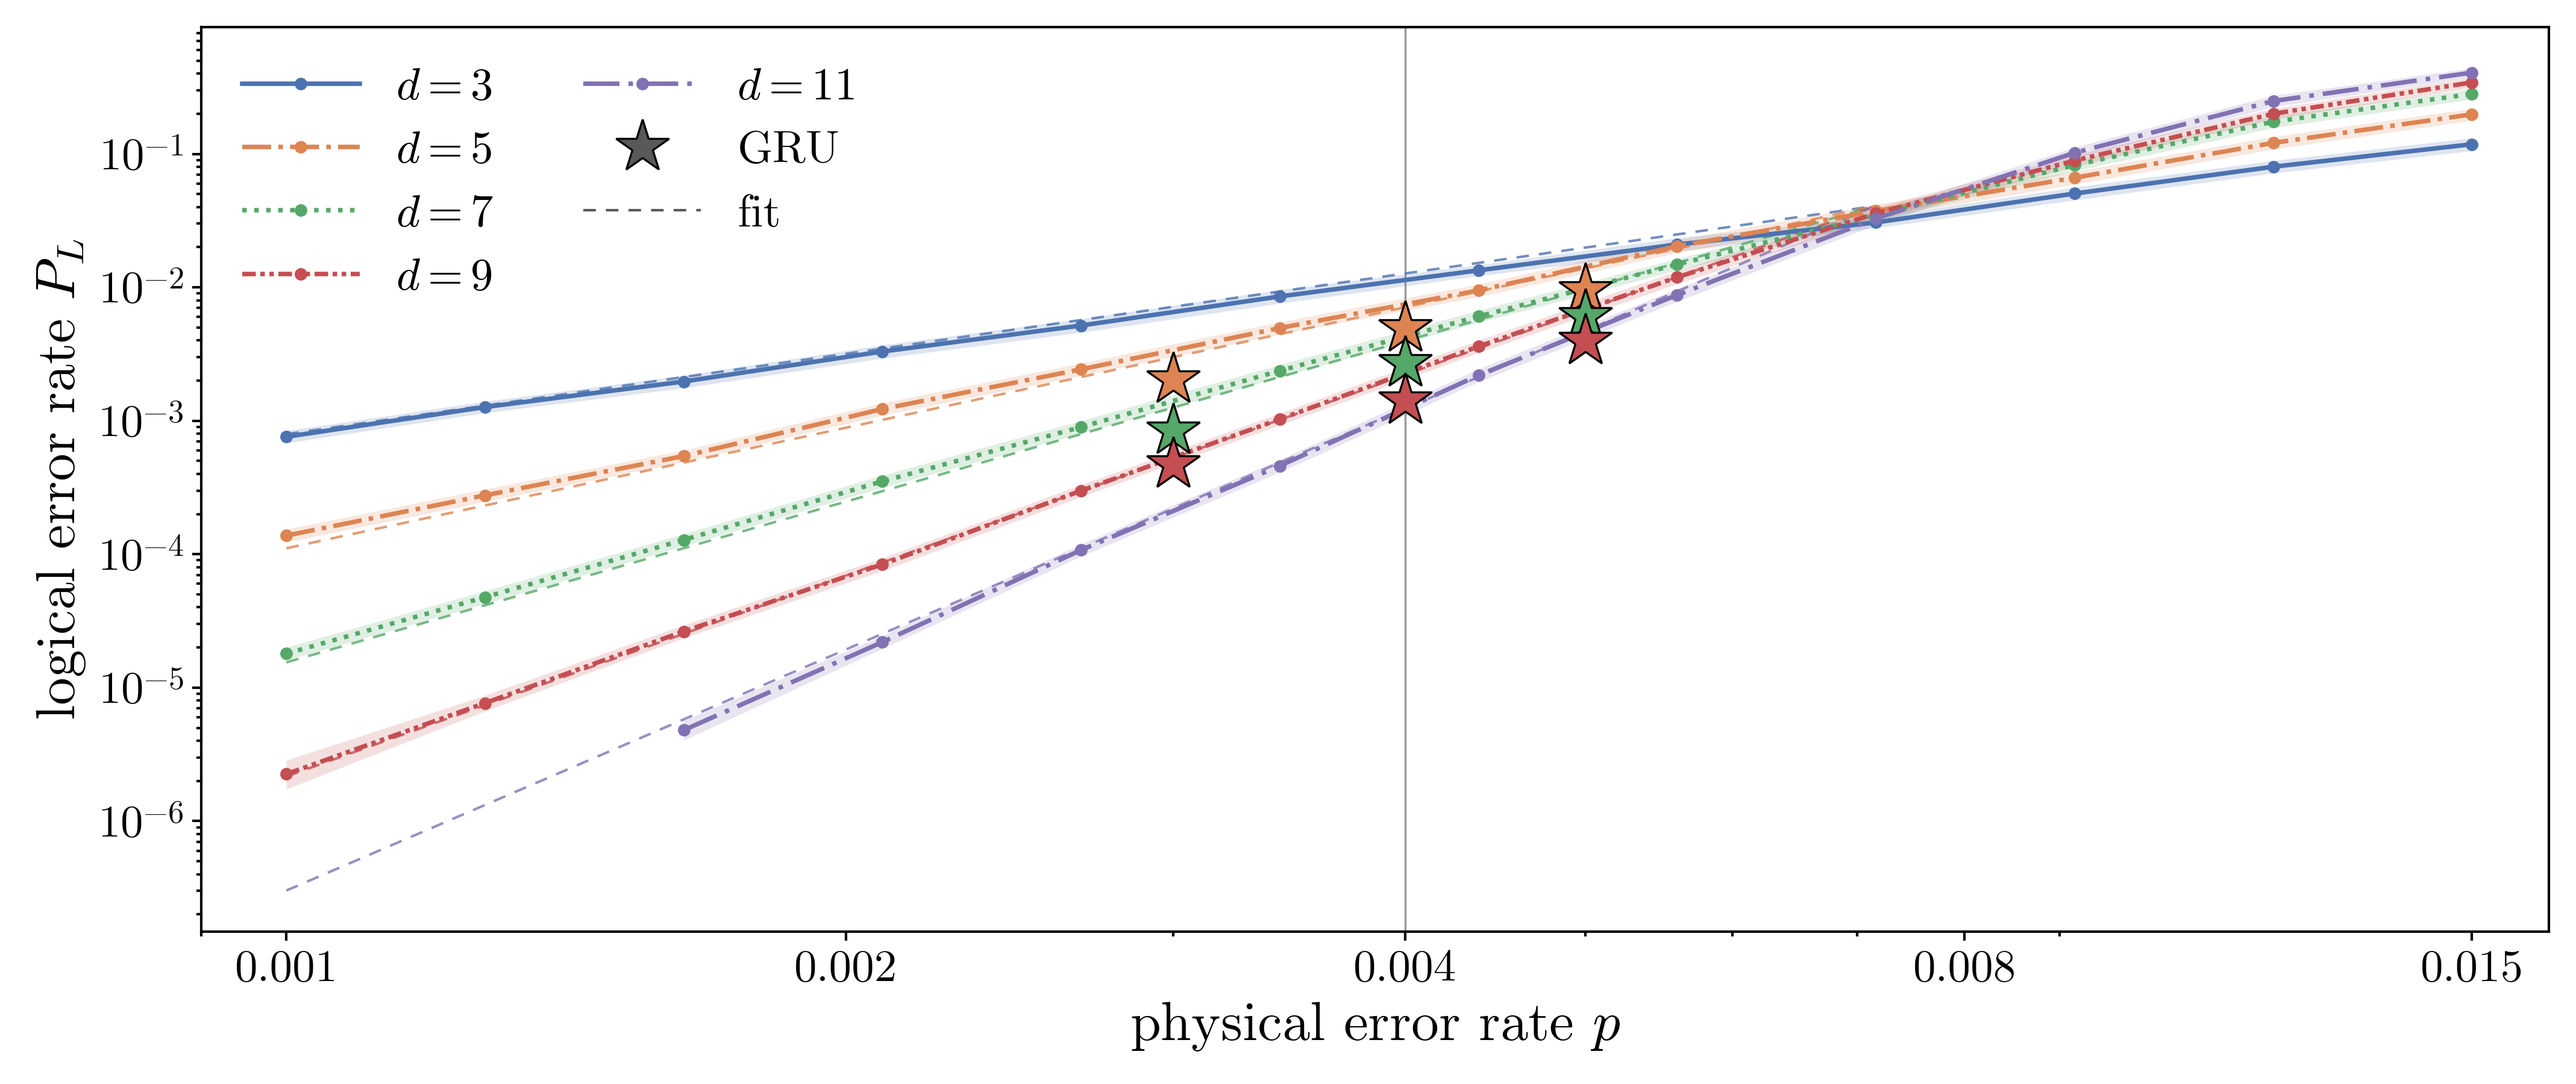
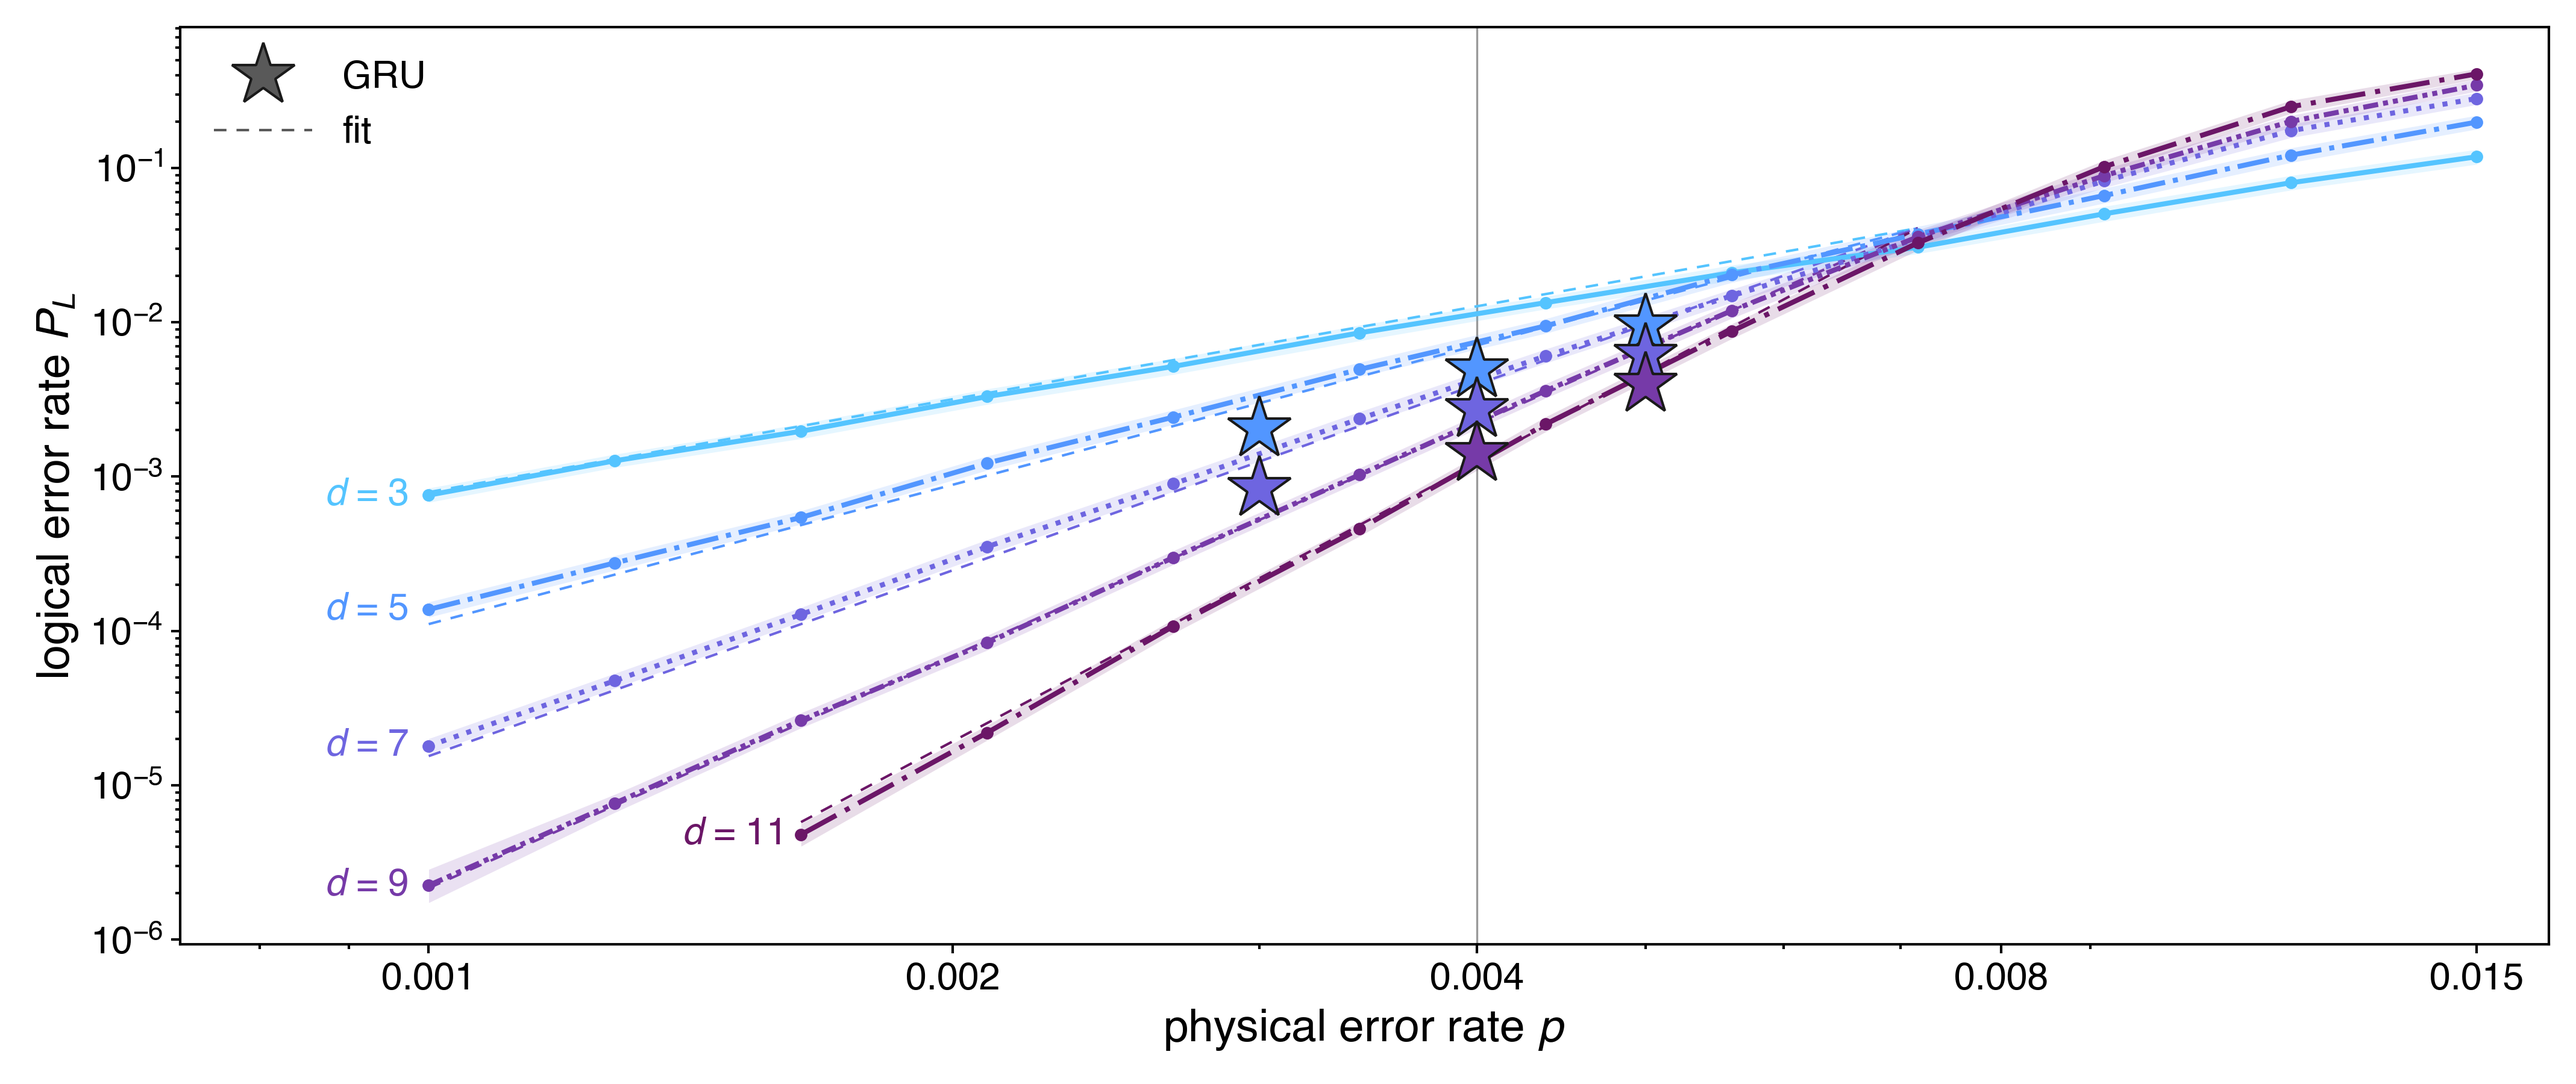
Poster figures: threshold with curve labels, GRU vs MWPM bars, Helvetica poster style

diff --git a/figures/threshold_figure.py b/figures/threshold_figure.py
@@ -1,5 +1,5 @@
 # Created: 2026-10-27
-# Last modified: 2026-10-27
+# Last modified: 2026-10-27 (curve labels instead of distance legend, DIST colours; poster style: Helvetica, 18/15 pt; distance palette; d9 p=0.003 star removed; fit lines clipped to each d's data range)
 # Threshold figure: MWPM logical error rate vs p from the sinter sweep, GRU test-set results
 # as stars. Every point is a counted simulation result; the dashed fit lines are a guide only.
 #   python figures/threshold_figure.py
@@ -12,9 +12,10 @@ from pathlib import Path
 import matplotlib
 matplotlib.use("Agg")
 import matplotlib.pyplot as plt
-from matplotlib import font_manager
 import numpy as np
 from scipy.optimize import brentq
+
+import poster_style
 
 ROOT = Path(__file__).resolve().parents[1]
 SWEEP = ROOT / "experiments" / "threshold_sweep_2026-10-27"
@@ -24,11 +25,13 @@ MIN_ERRORS = 100                  # points below this are left out of the plot a
 BAND_LIKELIHOOD_RATIO = 1000      # same band definition as sinter's plots
 OPERATING_P = 0.004
 
-COLORS = {3: "#4C72B0", 5: "#DD8452", 7: "#55A868", 9: "#C44E52", 11: "#8172B3"}
+COLORS = poster_style.DIST
+STAR_EDGE = "#1A1A1A"
 STYLES = {3: "-", 5: "-.", 7: ":", 9: (0, (3, 1, 1, 1, 1, 1)), 11: (0, (8, 2, 1, 2))}
 
 # GRU test-set rows: (d, p) -> (result file, row filter). The d9 p=0.004 headline is f3280e240;
 # f7w_p004 was scored by its launcher, not by eval_selected.sh (protocol/selection_rule.md).
+# d9 p=0.003 (f9w_p003) is left out: its headline model is undecided (240 epochs not converged).
 GRU_SOURCES = {
     (5, 0.003): (ROOT / "protocol/eval_selected.csv", "f5w_p003_"),
     (5, 0.004): (ROOT / "protocol/eval_selected.csv", "f5w_p004_"),
@@ -36,7 +39,6 @@ GRU_SOURCES = {
     (7, 0.003): (ROOT / "protocol/eval_selected.csv", "f7w_p003_"),
     (7, 0.004): (SWEEP / "gru_test_f7w_p004_eval_best_ckpt.csv", "f7w_p004_"),
     (7, 0.005): (ROOT / "protocol/eval_selected.csv", "f7w_p005_"),
-    (9, 0.003): (ROOT / "protocol/eval_selected.csv", "f9w_p003_"),
     (9, 0.004): (ROOT / "protocol/eval_selected.csv", "f3280e240_"),
     (9, 0.005): (ROOT / "protocol/eval_selected.csv", "f9w_p005_"),
 }
@@ -95,45 +97,34 @@ def load_gru():
     return stars
 
 
-def setup_style():
-    for f in font_manager.findSystemFonts():
-        if "cmun" in Path(f).name.lower():
-            font_manager.fontManager.addfont(f)
-    plt.rcParams.update({
-        "font.family": "CMU Serif", "mathtext.fontset": "cm", "axes.unicode_minus": False,
-        "xtick.labelsize": 18, "ytick.labelsize": 18, "axes.labelsize": 22, "legend.fontsize": 18,
-        "axes.linewidth": 1, "xtick.major.width": 1, "ytick.major.width": 1,
-        "xtick.minor.width": 1, "ytick.minor.width": 1,
-    })
-
-
 def plot(points, stars, a_fit, p_th):
     fig, ax = plt.subplots(figsize=(14.25, 6.0))
     ax.axvline(OPERATING_P, color="0.6", lw=0.8, zorder=0)
-    p_guide = np.geomspace(1e-3, p_th, 100)
     for d in sorted({d for d, _ in points}):
         ps = sorted(p for dd, p in points if dd == d)
         v = [points[d, p] for p in ps]
         pl = [x["errors"] / x["shots"] for x in v]
         band = np.array([likelihood_band(x["errors"], x["shots"]) for x in v])
         c = COLORS[d]
-        ax.fill_between(ps, band[:, 0], band[:, 1], color=c, alpha=0.18, lw=0, zorder=1)
-        ax.plot(ps, pl, color=c, ls=STYLES[d], lw=1.8, marker="o", ms=4, label=f"$d = {d}$", zorder=2)
-        ax.plot(p_guide, a_fit * (p_guide / p_th) ** ceil(d / 2), color=c, ls=(0, (5, 4)), lw=1.0,
-                alpha=0.8, zorder=1)
+        ax.fill_between(ps, band[:, 0], band[:, 1], color=c, alpha=0.15, lw=0, zorder=1)
+        ax.plot(ps, pl, color=c, ls=STYLES[d], lw=2, marker="o", ms=4, mfc=c, mec=c, zorder=2)
+        ax.annotate(f"$d$ = {d}", (ps[0], pl[0]), textcoords="offset points", xytext=(-8, 0),
+                    ha="right", va="center", color=c, fontsize=poster_style.CURVE_LABEL_PT)
+        # guide only over this d's own measured range, and only below threshold
+        p_guide = np.geomspace(min(ps), min(max(ps), p_th), 100)
+        ax.plot(p_guide, a_fit * (p_guide / p_th) ** ceil(d / 2), color=c, ls=(0, (5, 4)), lw=1,
+                zorder=1)
     for s in stars:
-        ax.plot(s["p"], s["gru"], marker="*", ms=22, color=COLORS[s["d"]], mec="black", mew=0.8,
+        ax.plot(s["p"], s["gru"], marker="*", ms=26, color=COLORS[s["d"]], mec=STAR_EDGE, mew=1,
                 ls="none", zorder=4)
 
-    handles, labels = ax.get_legend_handles_labels()
-    handles += [plt.Line2D([], [], marker="*", ms=22, color="0.35", mec="black", mew=0.8, ls="none"),
-                plt.Line2D([], [], color="0.35", ls=(0, (5, 4)), lw=1.0)]
-    labels += ["GRU", "fit"]
-    ax.legend(handles, labels, loc="upper left", ncol=2, frameon=False, handlelength=2.6)
+    handles = [plt.Line2D([], [], marker="*", ms=26, color="0.35", mec=STAR_EDGE, mew=1, ls="none"),
+                plt.Line2D([], [], color="0.35", ls=(0, (5, 4)), lw=1)]
+    ax.legend(handles, ["GRU", "fit"], loc="upper left", frameon=False, handlelength=2.6)
 
     ax.set_xscale("log")
     ax.set_yscale("log")
-    ax.set_xlim(9e-4, 1.65e-2)
+    ax.set_xlim(7.2e-4, 1.65e-2)  # room for the curve labels left of p = 0.001
     x_ticks = [0.001, 0.002, 0.004, 0.008, 0.015]
     ax.set_xticks(x_ticks)
     ax.set_xticklabels([f"{t:g}" for t in x_ticks])
@@ -150,7 +141,7 @@ if __name__ == "__main__":
     a_fit, p_th, n_fit = fit_threshold(points)
     stars = load_gru()
 
-    setup_style()
+    poster_style.apply()
     fig = plot(points, stars, a_fit, p_th)
     OUT.mkdir(parents=True, exist_ok=True)
     fig.savefig(OUT / "fig_threshold.png", dpi=300, facecolor="white")
@@ -161,6 +152,12 @@ if __name__ == "__main__":
                    total_cpu_s=sum(v["cpu_s"] for v in sweep.values()),
                    gru=[dict(s, ratio=s["gru"] / s["mwpm"]) for s in stars])
     json.dump(summary, open(OUT / "fig_threshold_summary.json", "w"), indent=1, default=list)
+    with open(OUT / "fig_threshold_points.csv", "w", newline="") as fh:
+        w = csv.writer(fh)
+        w.writerow(["d", "p", "shots", "errors", "P_L", "cpu_s", "plotted", "in_fit"])
+        for (d, p), v in sorted(sweep.items()):
+            w.writerow([d, p, v["shots"], v["errors"], f"{v['errors'] / v['shots']:.4e}",
+                        round(v["cpu_s"], 1), (d, p) in points, (d, p) in points and p < p_th])
     print(f"p_th = {p_th:.5f}  A = {a_fit:.4f}  ({n_fit} points in fit); skipped {skipped}")
     for s in stars:
         print(f"d={s['d']} p={s['p']}: GRU {s['gru']:.6f} MWPM {s['mwpm']:.6f} "

diff --git a/figures/gru_vs_mwpm_bars.py b/figures/gru_vs_mwpm_bars.py
@@ -1,0 +1,62 @@
+# Created: 2026-10-27
+# Last modified: 2026-10-27
+# GRU vs MWPM logical error rate at p = 0.004, d = 5, 7, 9: the selected checkpoints' test-set
+# results (1.8M shots, MWPM on the same shots), the same rows as the threshold figure's stars.
+#   python figures/gru_vs_mwpm_bars.py
+import matplotlib
+matplotlib.use("Agg")
+import matplotlib.pyplot as plt
+import numpy as np
+
+import poster_style
+from threshold_figure import OUT, load_gru
+
+P = 0.004
+DISTANCES = (5, 7, 9)
+FRAME_IN = (6.9, 3.0)
+
+
+def std_err(p_l, n):
+    return np.sqrt(p_l * (1 - p_l) / n)
+
+
+def plot(rows):
+    fig, ax = plt.subplots(figsize=FRAME_IN)
+    x = np.arange(len(rows))
+    width = 0.36
+    gru = np.array([r["gru"] for r in rows])
+    mwpm = np.array([r["mwpm"] for r in rows])
+    n = np.array([r["n"] for r in rows])
+    err_kw = dict(ecolor=poster_style.INK, elinewidth=1, capsize=3, capthick=1)
+    ax.bar(x - width / 2, gru, width, yerr=std_err(gru, n), color=poster_style.MODEL, label="GRU",
+           error_kw=err_kw, zorder=2)
+    ax.bar(x + width / 2, mwpm, width, yerr=std_err(mwpm, n), color=poster_style.NEUTRAL, label="MWPM",
+           error_kw=err_kw, zorder=2)
+    for xi, g, m in zip(x, gru, mwpm):
+        ax.annotate(f"{g / m:.2f}x", (xi - width / 2, g), textcoords="offset points", xytext=(0, 4),
+                    ha="center", va="bottom", fontsize=poster_style.CURVE_LABEL_PT, color=poster_style.INK)
+
+    ax.set_yscale("log")
+    ax.set_ylim(5e-4, 2e-2)
+    ax.set_xticks(x)
+    ax.set_xticklabels([f"$d$ = {r['d']}" for r in rows])
+    ax.tick_params(axis="x", length=0)
+    ax.set_ylabel("logical error rate $P_L$")
+    ax.legend(loc="upper right", frameon=False)
+    for side in ("top", "right"):
+        ax.spines[side].set_visible(False)
+    fig.tight_layout(pad=0.3)
+    return fig
+
+
+if __name__ == "__main__":
+    by_cell = {(s["d"], s["p"]): s for s in load_gru()}
+    rows = [by_cell[d, P] for d in DISTANCES]
+    poster_style.apply()
+    fig = plot(rows)
+    fig.savefig(OUT / "fig5_gru_vs_mwpm.png", dpi=300, facecolor="white")
+    fig.savefig(OUT / "fig5_gru_vs_mwpm_transparent.png", dpi=300, transparent=True)
+    for r in rows:
+        print(f"d={r['d']} p={r['p']}: GRU {r['gru']:.6f} +- {std_err(r['gru'], r['n']):.6f}  "
+              f"MWPM {r['mwpm']:.6f} +- {std_err(r['mwpm'], r['n']):.6f}  ratio {r['gru'] / r['mwpm']:.3f}  "
+              f"{r['source']}  {r['weights'].split('/experiments/')[-1]}")

diff --git a/figures/poster_style.py b/figures/poster_style.py
@@ -1,0 +1,49 @@
+# Created: 2026-10-27
+# Last modified: 2026-10-27
+# Poster plot style: Helvetica (fallback Arial) for text and math, sizes in pt at final print size.
+# matplotlib reads only the first face of a .ttc, so the faces of macOS Helvetica.ttc are written
+# out as separate .ttf files in a local cache (never committed: Apple's font) and registered.
+from pathlib import Path
+
+import matplotlib.pyplot as plt
+from matplotlib import font_manager
+
+HELVETICA_TTC = Path("/System/Library/Fonts/Helvetica.ttc")
+FONT_CACHE = Path.home() / "Library" / "Caches" / "poster_fonts"
+
+AXIS_LABEL_PT = 18
+TICK_PT = LEGEND_PT = CURVE_LABEL_PT = 15
+
+MODEL = "#2A9D8F"     # GRU
+NEUTRAL = "#868D95"   # MWPM in GRU vs MWPM comparisons
+INK = "#1A1A1A"
+DIST = {3: "#54C4FF", 5: "#5296FF", 7: "#6E65E0", 9: "#763AA8", 11: "#6B1667"}  # code distance, light to dark
+
+
+def _register_helvetica_faces():
+    if not HELVETICA_TTC.exists():
+        return False
+    from fontTools.ttLib import TTCollection
+    FONT_CACHE.mkdir(parents=True, exist_ok=True)
+    for i, face in enumerate(TTCollection(str(HELVETICA_TTC)).fonts):
+        path = FONT_CACHE / f"Helvetica-{i}.ttf"
+        if not path.exists():
+            face.save(str(path))
+        font_manager.fontManager.addfont(str(path))
+    return True
+
+
+def apply():
+    family = "Helvetica" if _register_helvetica_faces() else "Arial"
+    plt.rcParams.update({
+        "font.family": [family, "Arial"],
+        "mathtext.fontset": "custom",
+        "mathtext.rm": family, "mathtext.it": f"{family}:italic", "mathtext.bf": f"{family}:bold",
+        "axes.unicode_minus": False,
+        "axes.labelsize": AXIS_LABEL_PT, "xtick.labelsize": TICK_PT, "ytick.labelsize": TICK_PT,
+        "legend.fontsize": LEGEND_PT,
+        "axes.linewidth": 1, "xtick.major.width": 1, "ytick.major.width": 1,
+        "xtick.minor.width": 1, "ytick.minor.width": 1,
+        "savefig.bbox": None,   # exact frame size, never cropped or padded
+    })
+    return family
